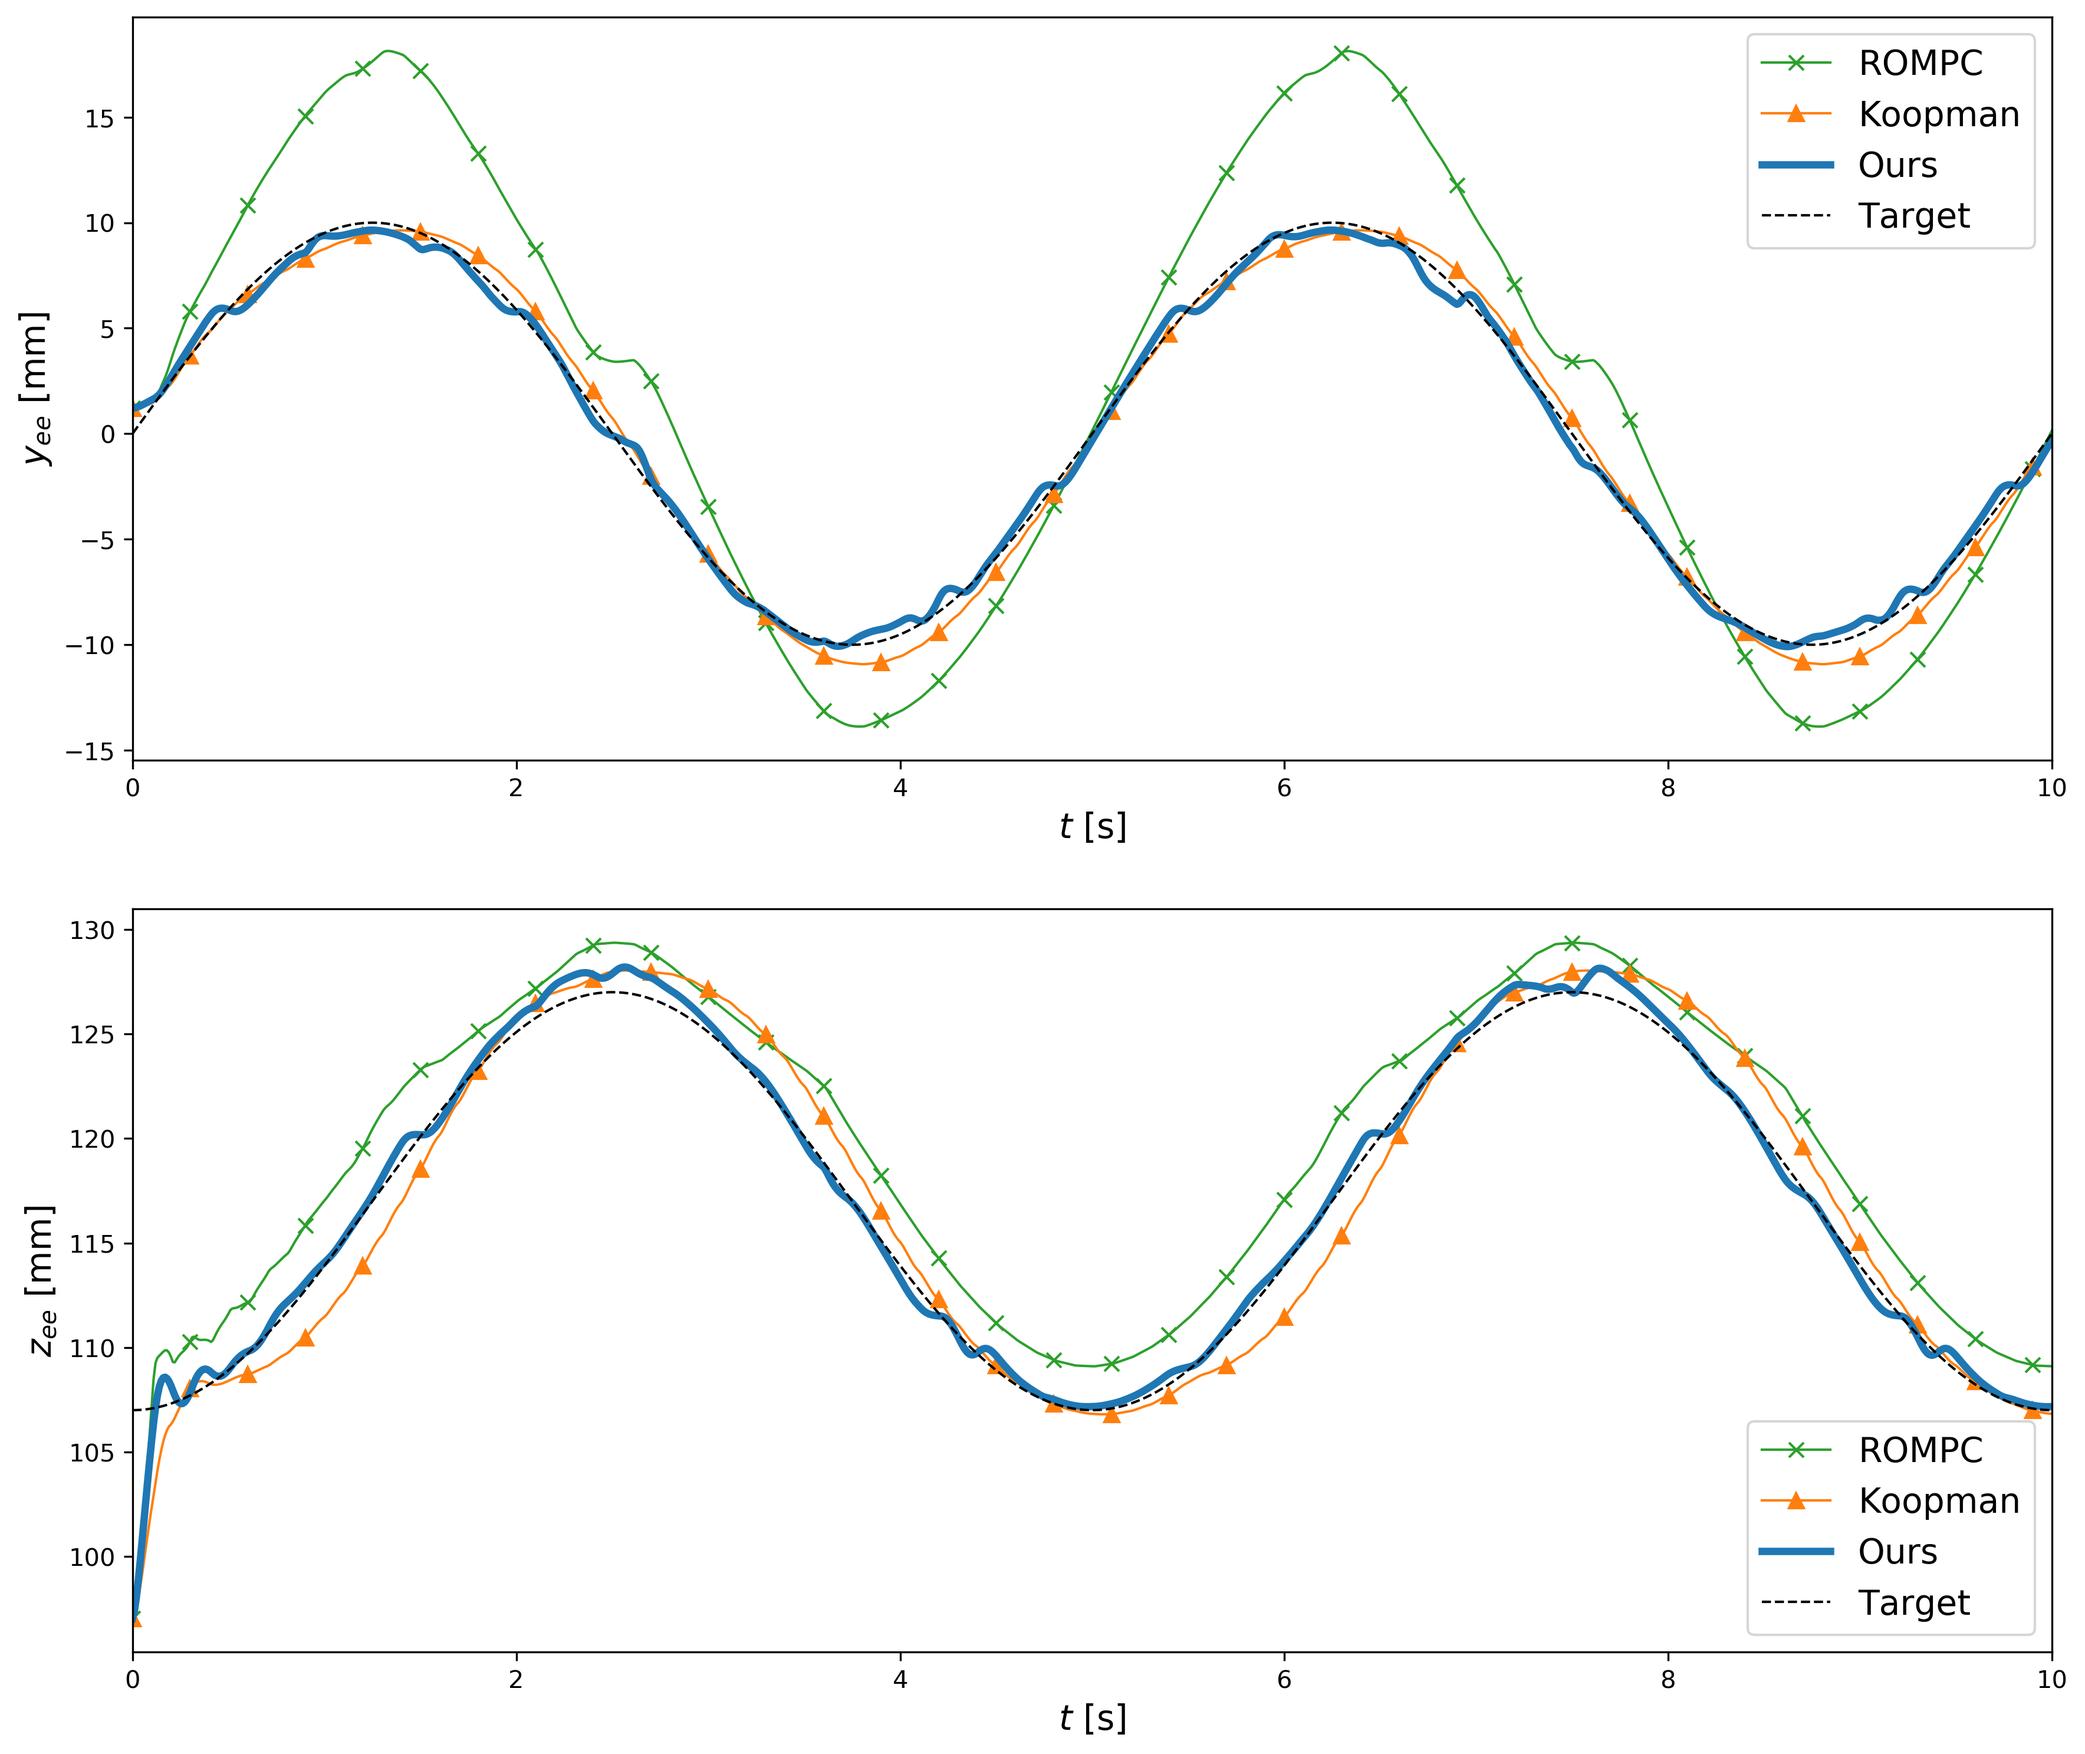
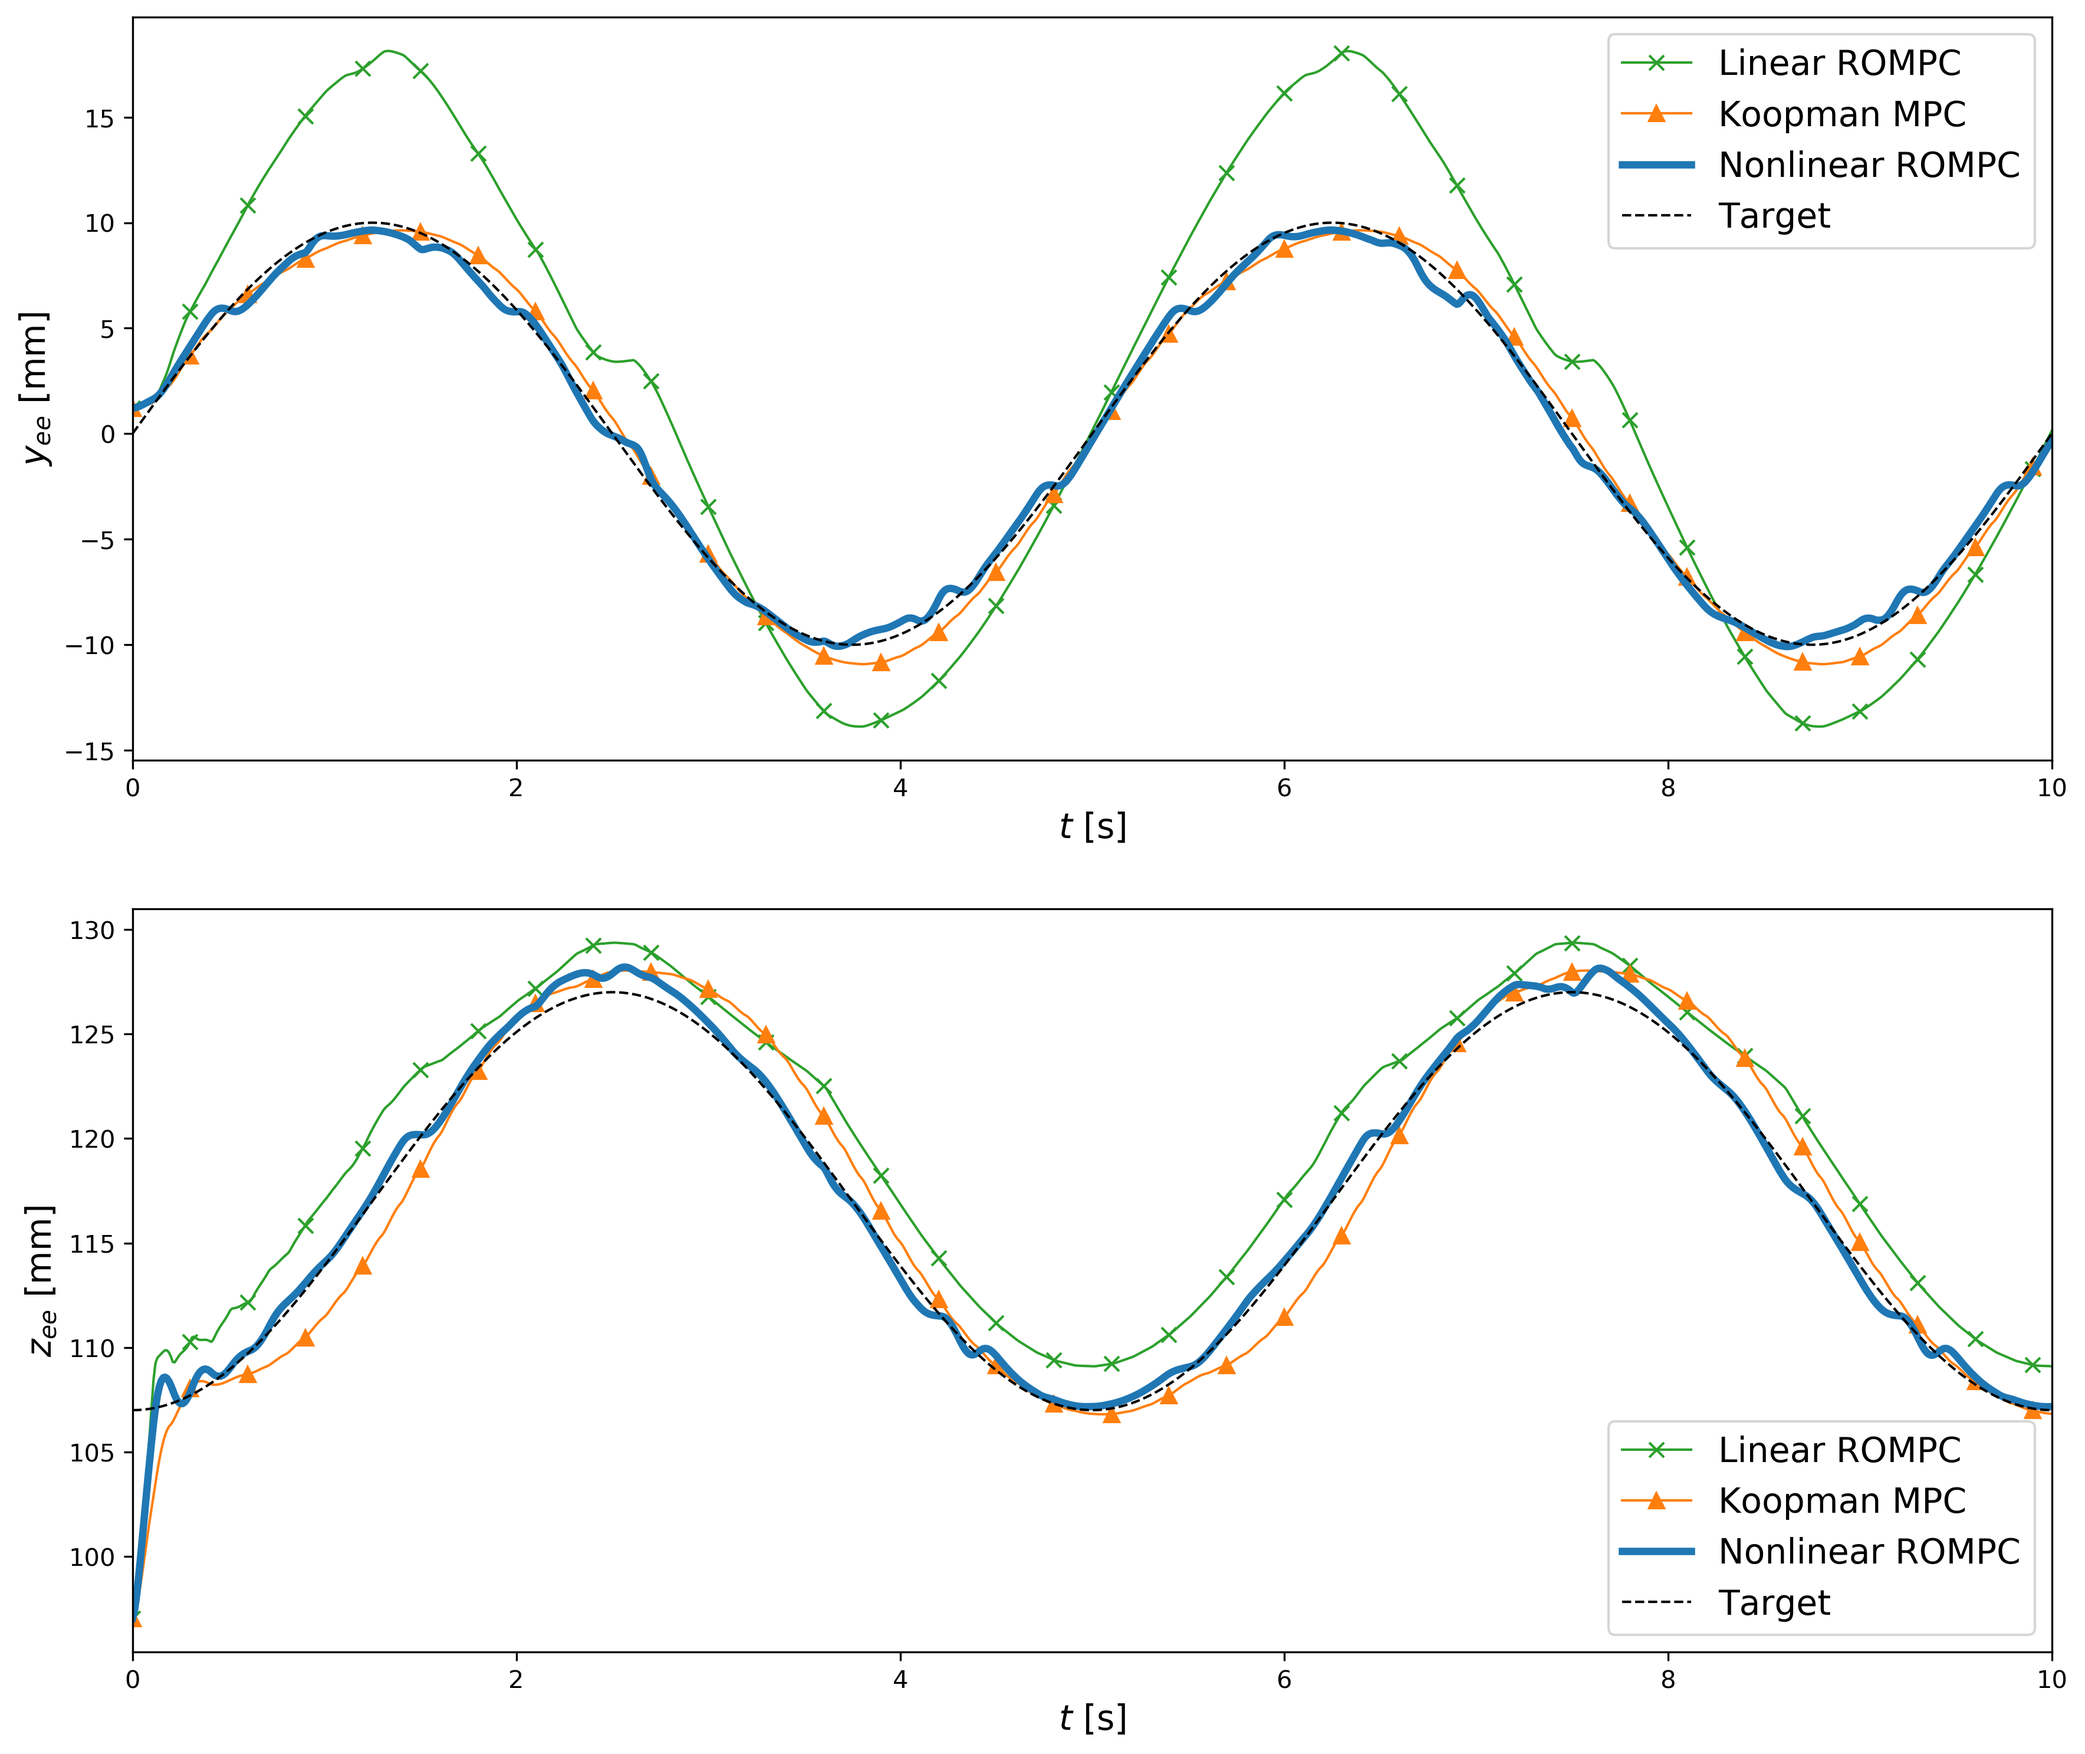
small updates to plots

Changed region(s): [[0.7777, 0.8043, 0.9644, 0.928], [0.7777, 0.0309, 0.9644, 0.1547]]

diff --git a/examples/hardware/plotting.py b/examples/hardware/plotting.py
@@ -81,15 +81,15 @@ fig2 = plt.figure(figsize=(14, 12), facecolor='w', edgecolor='k')
 ax2 = fig2.add_subplot(211)
 
 if name == 'figure8':
-    ax2.plot(t_rompc, z_rompc[:, 3], 'tab:green', marker='x', markevery=m_w, label='ROMPC', linewidth=1)
-    ax2.plot(t_koop, z_koop[:, 3], 'tab:orange', marker='^', markevery=m_w, label='Koopman', linewidth=1)
-    ax2.plot(t_scp, z_scp[:, 3], 'tab:blue', label='Ours', linewidth=3)
+    ax2.plot(t_rompc, z_rompc[:, 3], 'tab:green', marker='x', markevery=m_w, label='Linear ROMPC', linewidth=1)
+    ax2.plot(t_koop, z_koop[:, 3], 'tab:orange', marker='^', markevery=m_w, label='Koopman MPC', linewidth=1)
+    ax2.plot(t_scp, z_scp[:, 3], 'tab:blue', label='Nonlinear ROMPC', linewidth=3)
     ax2.plot(t_target, zf_target[:, 3], '--k', alpha=1, linewidth=1, label='Target')
     plt.ylabel(r'$x_{ee}$ [mm]', fontsize=14)
 else:
-    ax2.plot(t_rompc, z_rompc[:, 4], 'tab:green', marker='x', markevery=m_w, label='ROMPC', linewidth=1)
-    ax2.plot(t_koop, z_koop[:, 4], 'tab:orange', marker='^', markevery=m_w, label='Koopman', linewidth=1)
-    ax2.plot(t_scp, z_scp[:, 4], 'tab:blue', label='Ours', linewidth=3)
+    ax2.plot(t_rompc, z_rompc[:, 4], 'tab:green', marker='x', markevery=m_w, label='Linear ROMPC', linewidth=1)
+    ax2.plot(t_koop, z_koop[:, 4], 'tab:orange', marker='^', markevery=m_w, label='Koopman MPC', linewidth=1)
+    ax2.plot(t_scp, z_scp[:, 4], 'tab:blue', label='Nonlinear ROMPC', linewidth=3)
     ax2.plot(t_target, zf_target[:, 4], '--k', alpha=1, linewidth=1, label='Target')
     plt.ylabel(r'$y_{ee}$ [mm]', fontsize=14)
 ax2.set_xlim([0, 10])
@@ -99,15 +99,15 @@ plt.legend(loc='best', prop={'size': 14})
 ax3 = fig2.add_subplot(212)
 if name == 'figure8':
     ax3.plot(t_target, y_ub * np.ones_like(t_target), 'r', label='Constraint')
-    ax3.plot(t_rompc, z_rompc[:, 4], 'tab:green', marker='x', markevery=m_w, label='ROMPC', linewidth=1)
-    ax3.plot(t_koop, z_koop[:, 4], 'tab:orange', marker='^', markevery=m_w, label='Koopman', linewidth=1)
-    ax3.plot(t_scp, z_scp[:, 4], 'tab:blue', label='Ours', linewidth=3)
+    ax3.plot(t_rompc, z_rompc[:, 4], 'tab:green', marker='x', markevery=m_w, label='Linear ROMPC', linewidth=1)
+    ax3.plot(t_koop, z_koop[:, 4], 'tab:orange', marker='^', markevery=m_w, label='Koopman MPC', linewidth=1)
+    ax3.plot(t_scp, z_scp[:, 4], 'tab:blue', label='Nonlinear ROMPC', linewidth=3)
     ax3.plot(t_target, zf_target[:, 4], '--k', alpha=1, linewidth=1, label='Target')
     plt.ylabel(r'$y_{ee}$ [mm]', fontsize=14)
 else:
-    ax3.plot(t_rompc, z_rompc[:, 5], 'tab:green', marker='x', markevery=m_w, label='ROMPC', linewidth=1)
-    ax3.plot(t_koop, z_koop[:, 5], 'tab:orange', marker='^', markevery=m_w, label='Koopman', linewidth=1)
-    ax3.plot(t_scp, z_scp[:, 5], 'tab:blue', label='Ours', linewidth=3)
+    ax3.plot(t_rompc, z_rompc[:, 5], 'tab:green', marker='x', markevery=m_w, label='Linear ROMPC', linewidth=1)
+    ax3.plot(t_koop, z_koop[:, 5], 'tab:orange', marker='^', markevery=m_w, label='Koopman MPC', linewidth=1)
+    ax3.plot(t_scp, z_scp[:, 5], 'tab:blue', label='Nonlinear ROMPC', linewidth=3)
     ax3.plot(t_target, zf_target[:, 5], '--k', alpha=1, linewidth=1, label='Target')
     plt.ylabel(r'$z_{ee}$ [mm]', fontsize=14) 
 ax3.set_xlim([0, 10])
@@ -149,5 +149,13 @@ print('------ Mean Squared Errors (MSEs)----------')
 print('Ours (SCP): {}'.format(mse_scp))
 print('Koopman: {}'.format(mse_koop))
 print('ROMPC: {}'.format(mse_rompc))
+
+print('-------------Solve times ---------------')
+print('Ours: Min: {}, Mean: {} ms, Max: {} s'.format(np.min(solve_times_scp), np.mean(solve_times_scp),
+                                                     np.max(solve_times_scp)))
+print('ROMPC: Min: {}, Mean: {} ms, Max: {} s'.format(np.min(solve_times_rompc), np.mean(solve_times_rompc),
+                                                      np.max(solve_times_rompc)))
+print('Koopman: Min: {}, Mean: {} ms, Max: {} s'.format(np.min(solve_times_koop), np.mean(solve_times_koop),
+                                                        np.max(solve_times_koop)))
 
 plt.show()
